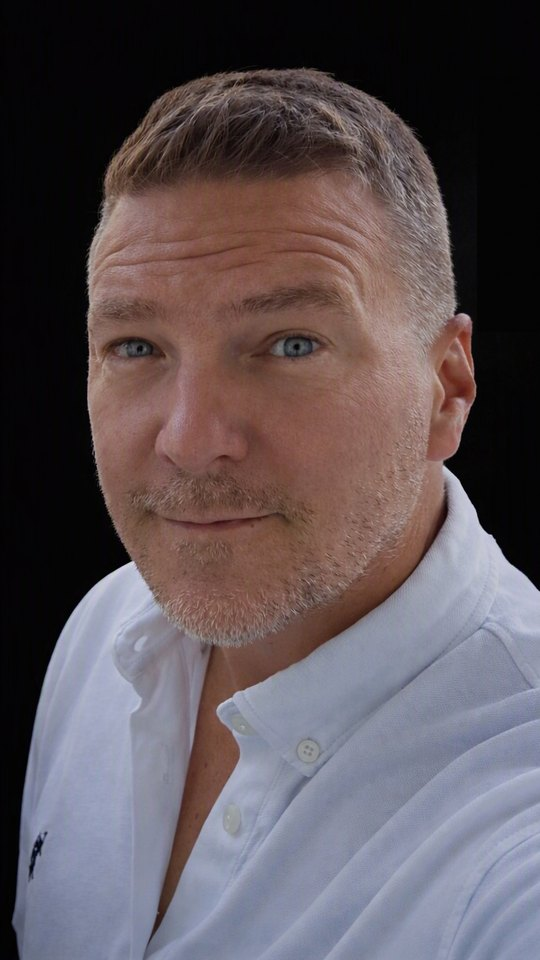
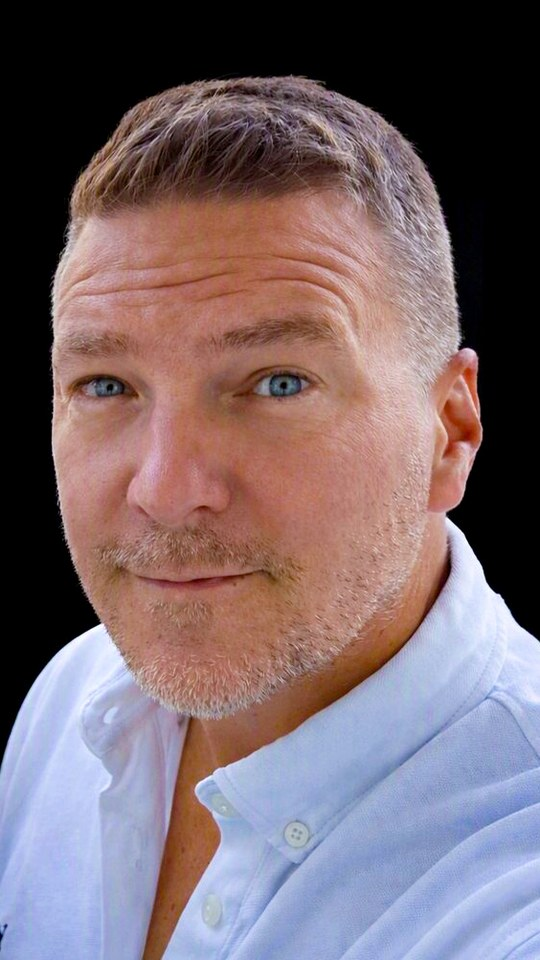
Replace MJ's photo with the new portrait
New source photo for the About portrait (4:5 crop), the home founder card and the
hero phone's still frame (full 9:16). Fixes the tight crop and washed-out look.

Claude-Session: https://claude.ai/code/session_01RhkeQB17fX6JBbMmKRrSPb

diff --git a/src/pages/00-home.html b/src/pages/00-home.html
@@ -148,7 +148,7 @@
       <div class="lockup r" role="img" aria-label="Fox Media Agency logo"></div>
       <div class="founders">
         <article class="founder r">
-          <div class="slot" style="padding:0;border:0;overflow:hidden"><img src="/assets/img/mj.jpg" alt="MJ" style="width:100%;height:100%;object-fit:cover;display:block" loading="lazy" width="800" height="1000"></div>
+          <div class="slot" style="padding:0;border:0;overflow:hidden"><img src="/assets/img/mj-phone.jpg" alt="MJ" style="width:100%;height:100%;object-fit:cover;object-position:top;display:block" loading="lazy" width="540" height="960"></div>
           <div class="info">
             <h3>MJ</h3>
             <div class="handles"><span class="tag">@Kernow_Pastyland</span><span class="tag">@TheCornishJs</span></div>

diff --git a/src/pages/01-about.html b/src/pages/01-about.html
@@ -15,7 +15,7 @@
   <div class="wrap stack">
     <article class="founder-full">
       <div class="portrait r">
-        <img src="/assets/img/mj.jpg" alt="MJ, co-founder of Fox Media" width="800" height="1000">
+        <img src="/assets/img/mj.jpg" alt="MJ, co-founder of Fox Media" width="640" height="800">
         <span class="pill live">LIVE</span>
         <div class="meta"><b>MJ</b><span class="handles"><span class="tag">@Kernow_Pastyland</span><span class="tag">@TheCornishJs</span></span></div>
       </div>
